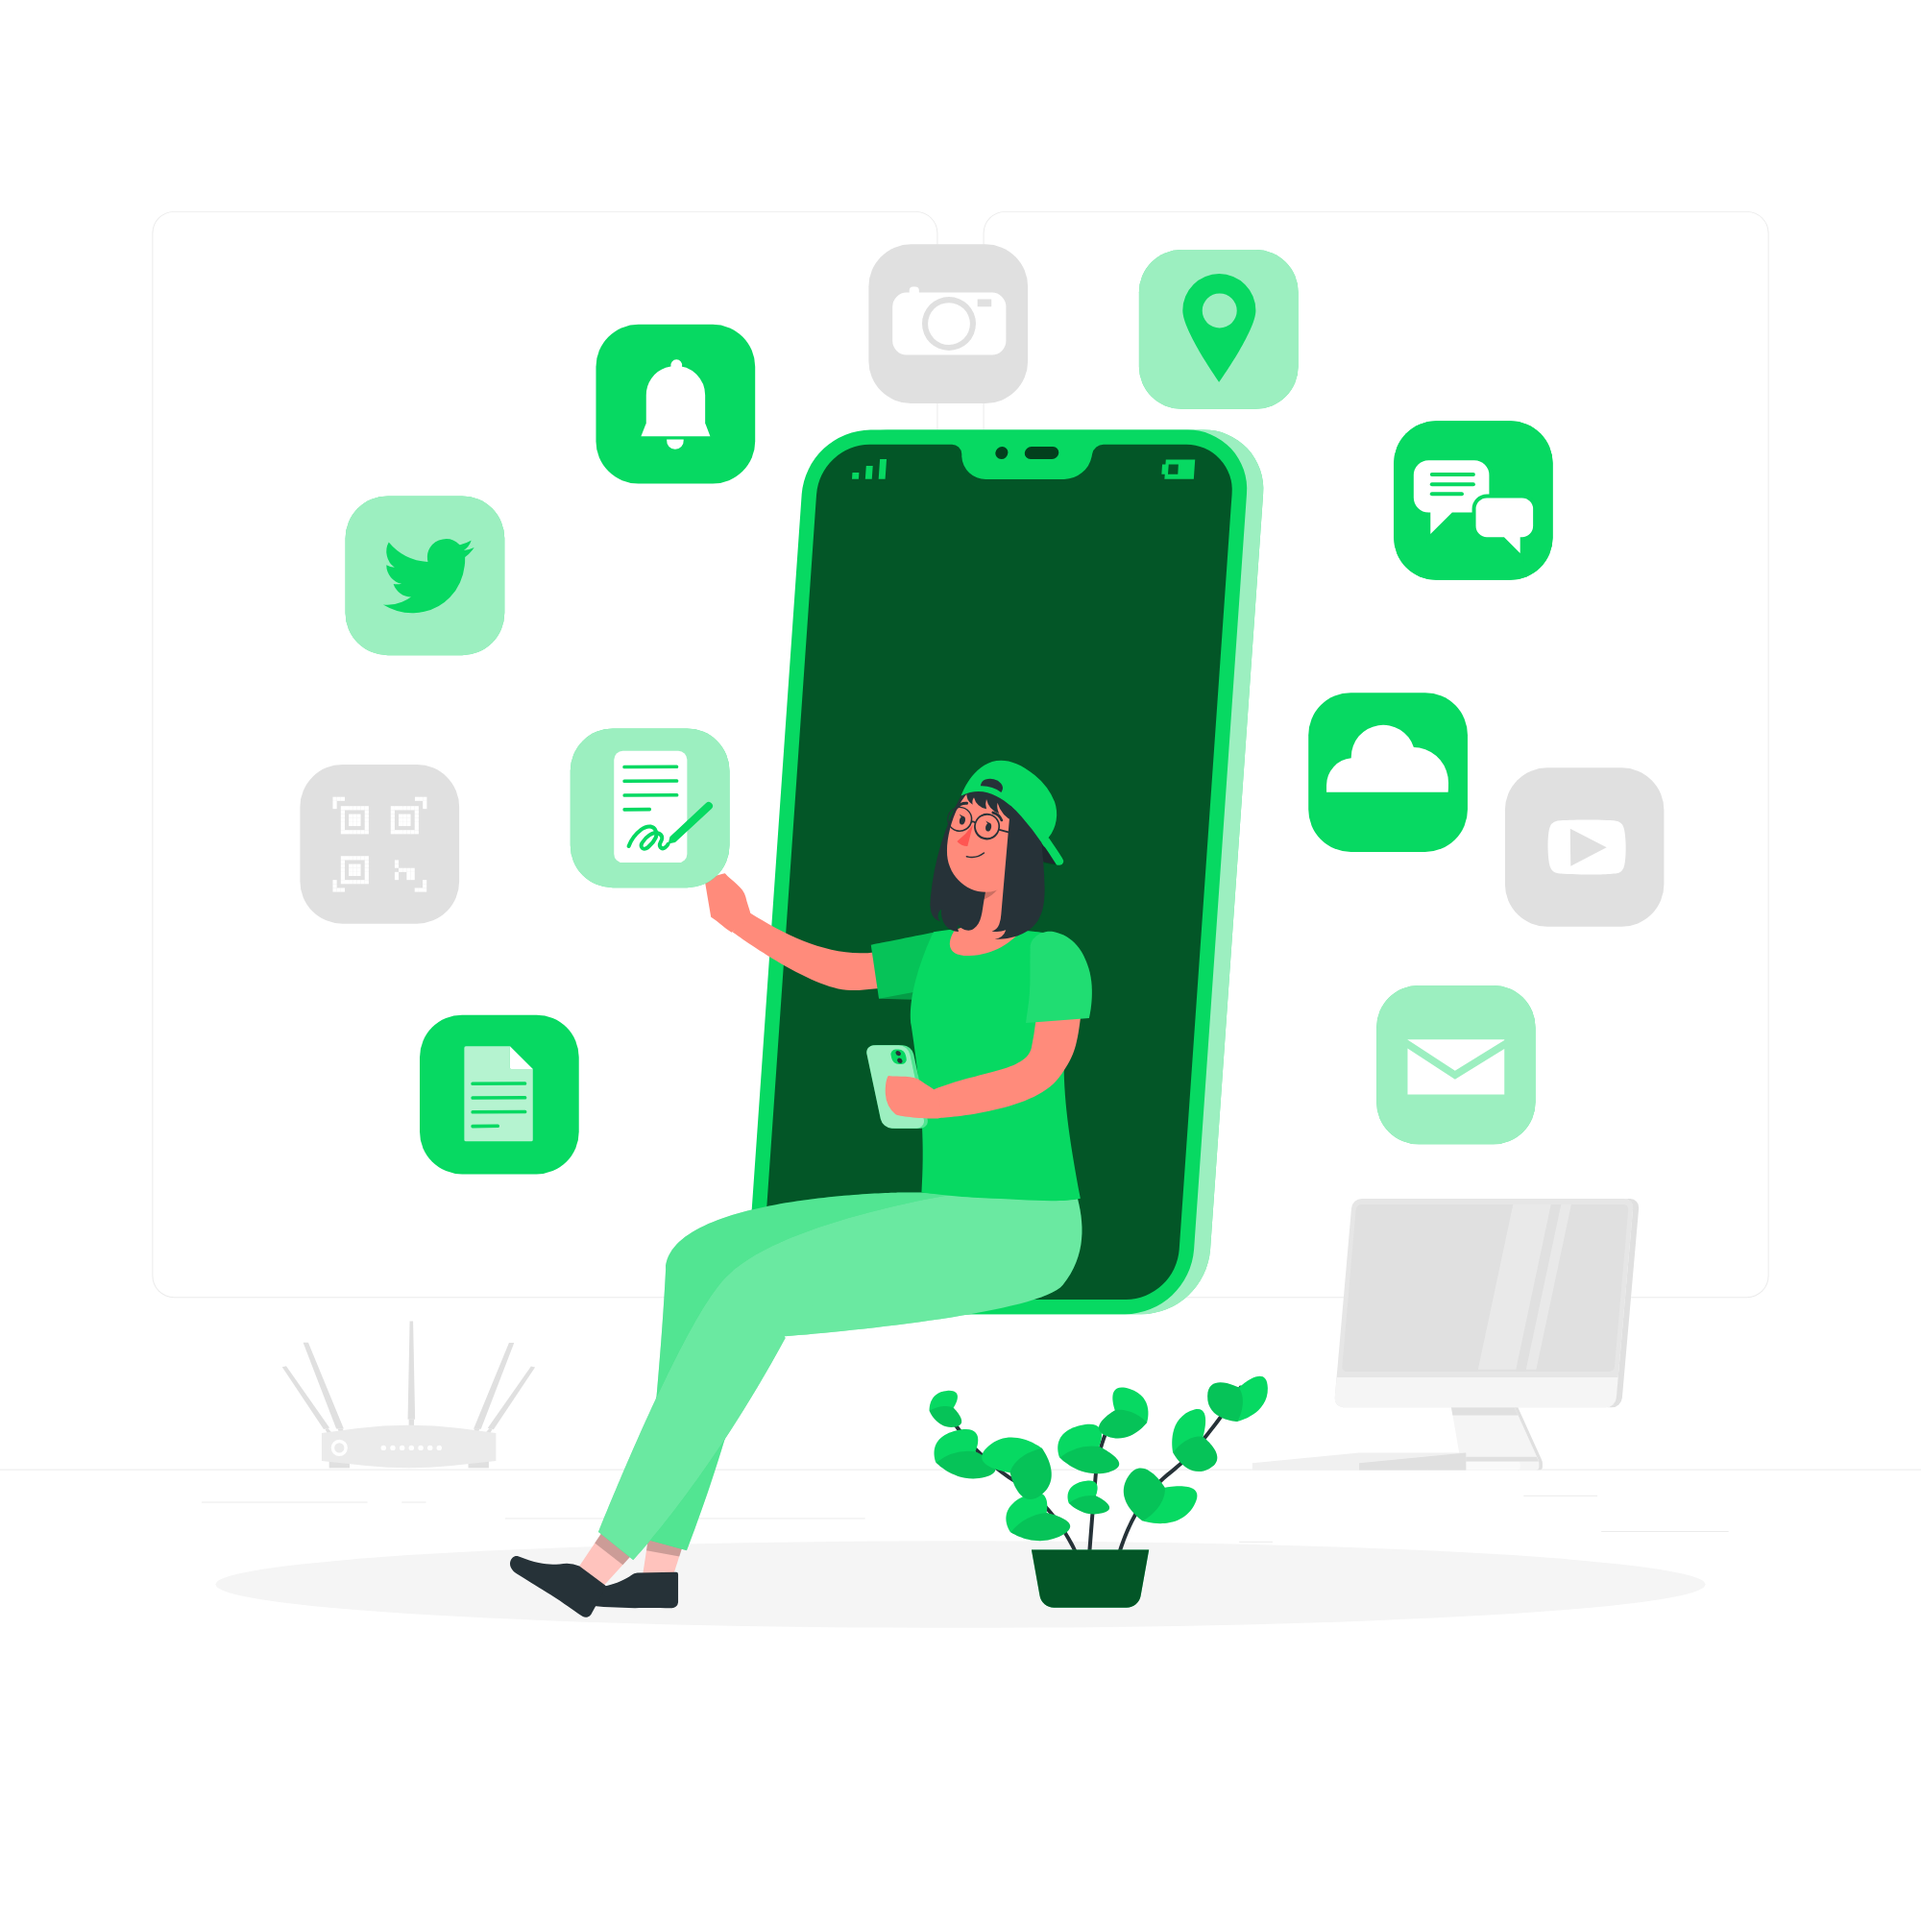
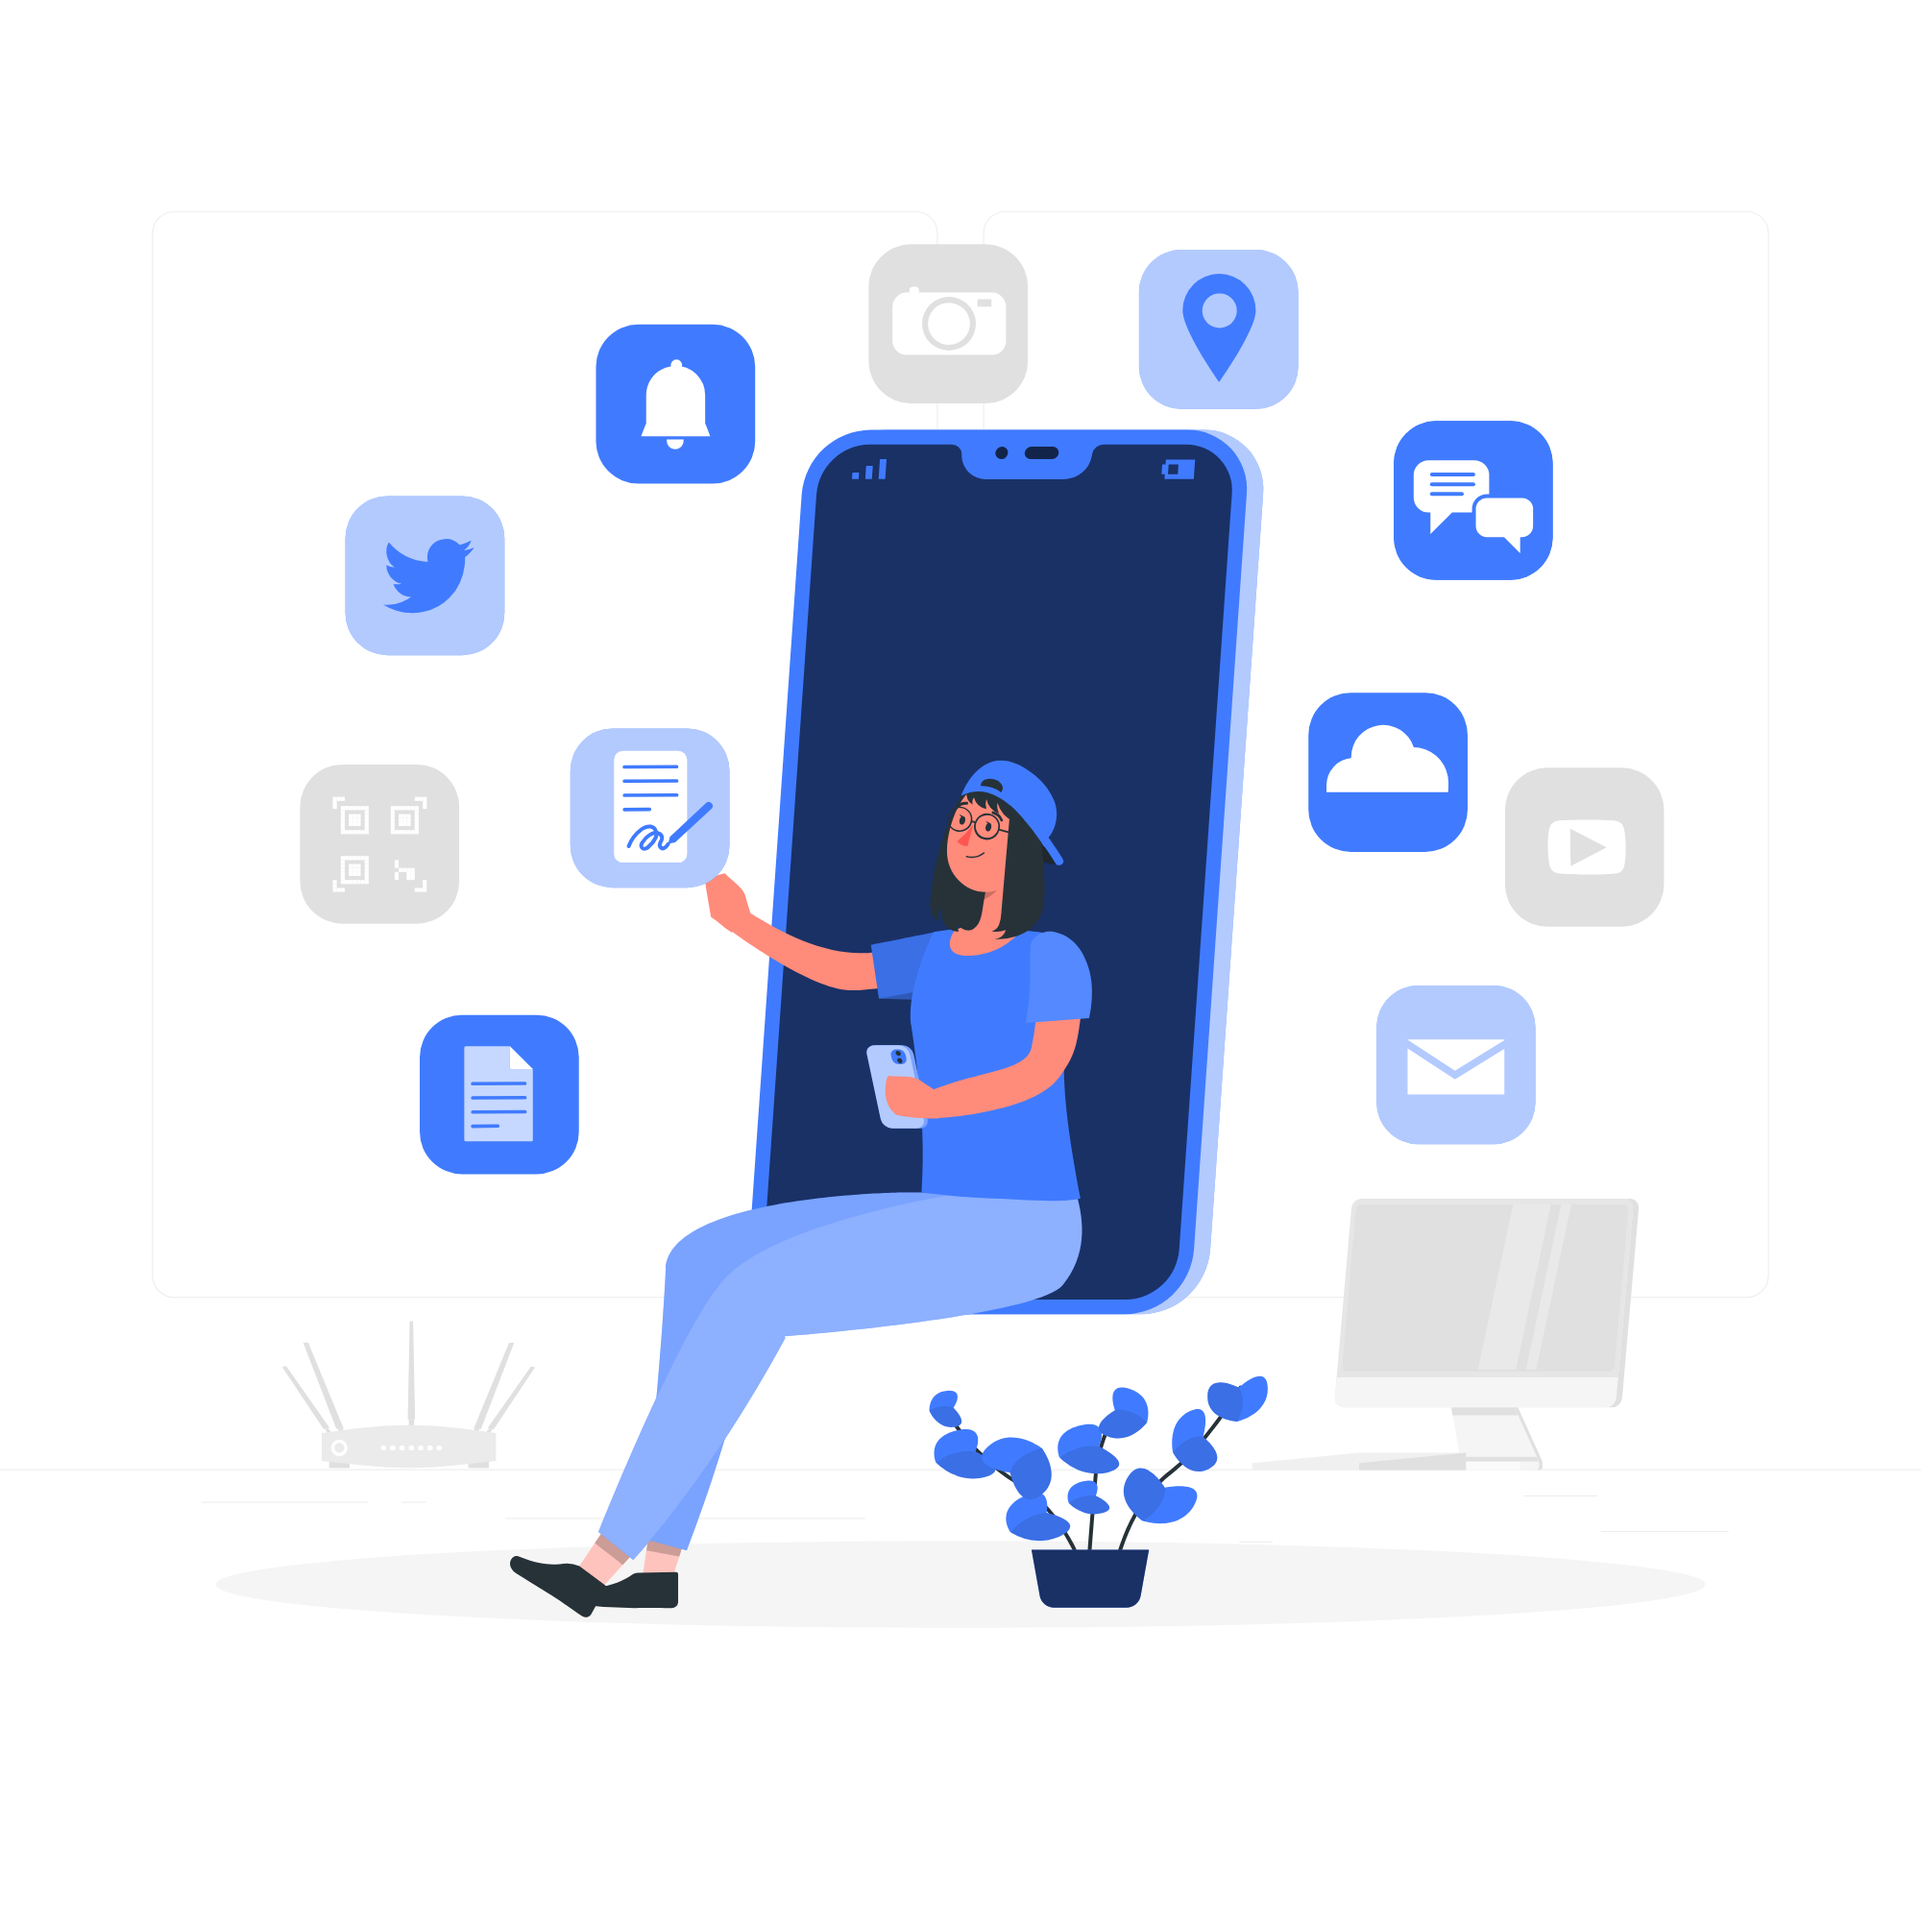
Add files via upload

diff --git a/src/App.tsx b/src/App.tsx
@@ -17,7 +17,7 @@ function App() {
 
 
       <header>
-      <h1 className="title">203</h1>
+      <h1 className="title">2HUNDRED3 TIMES</h1>
       </header>
 
       <div className="introducao">
@@ -25,7 +25,7 @@ function App() {
         <div>
         
       <h2 className='subtitle'>  Seu portal de notícias <br></br> da E.E Manoel Soares de Couto</h2>
-        <h1 className='titulo'><span>203&apos;times</span> </h1>
+        <h1 className='titulo'><span>2HUNDRED3&apos;TIMES</span> </h1>
         
         
         <div className='botao'>
@@ -68,14 +68,14 @@ function App() {
         src={cll}
         className='img1'
         />
-        <h2 className='m'>Manchete</h2>
+        <h2 className='m'>Excesso de peso ou Excesso de tela?</h2>
        
       </div>
 
       </a>
 
       <div id='meio' className='bottom'>
-        <h2 className='bottomlogo'>203</h2>
+        <h2 className='bottomlogo'>2HUNDRED3 TIMES</h2>
       </div>
 
       

diff --git a/styles/app.scss b/styles/app.scss
@@ -13,7 +13,7 @@ html {
 
 header {
     position: fixed;
-    background-color: #07D962;
+    background-color: #0076CE;
     height: 70px;
     width: 100%;
 }
@@ -39,13 +39,13 @@ header {
 }
 
 span {
-    color: #07D962;
+    color: #0076CE;
     padding-right: 8px;
 }
 
 
 .bottom {
-    background-color: #07D962;
+    background-color: #0076CE;
     height: 100px;
 }
 
@@ -70,7 +70,7 @@ span {
     position: absolute;
     width: 100%;
     height: 50%;
-    background-color: #07D962;
+    background-color: #0076CE;
     clip-path: circle(30% at bottom right);
     
 }
@@ -90,7 +90,7 @@ button {
     width: 20vw;
     height: 5vw;
     cursor: pointer;
-    background-color: #07D962;
+    background-color: #0076CE;
     color: #fff;
     border-radius: 50px;
     
@@ -100,7 +100,7 @@ button {
 button:hover {
     transition: 1s;
     cursor: pointer;
-    background-color: hwb(146 0% 26%);
+    background-color: #00589b;
 
 }
 
